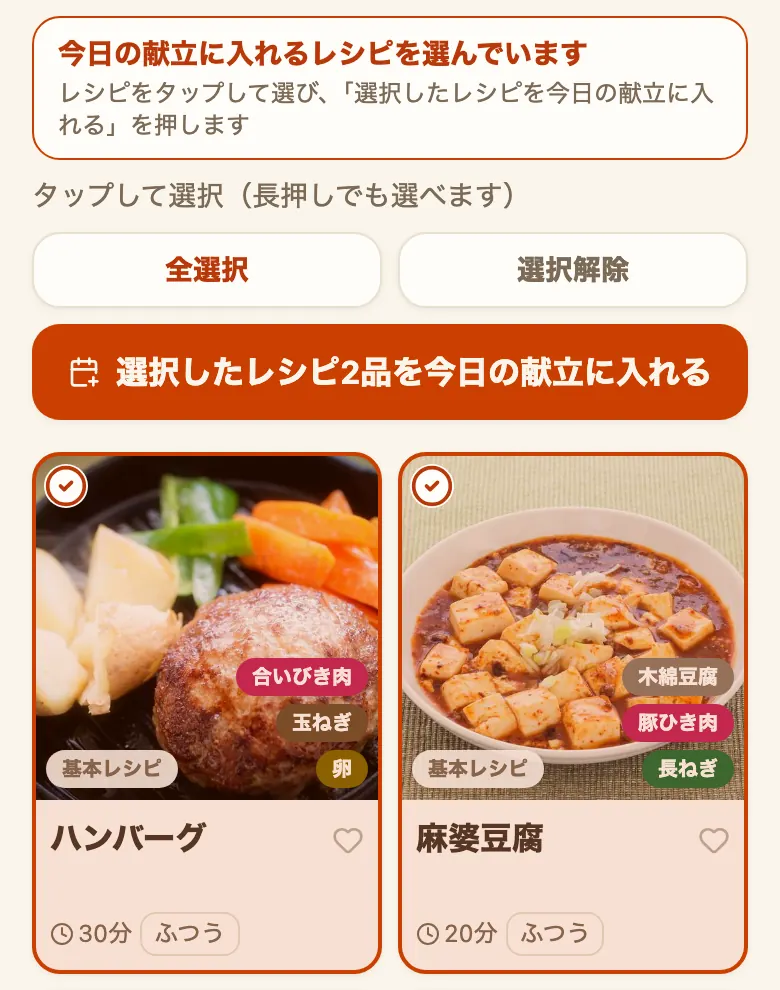
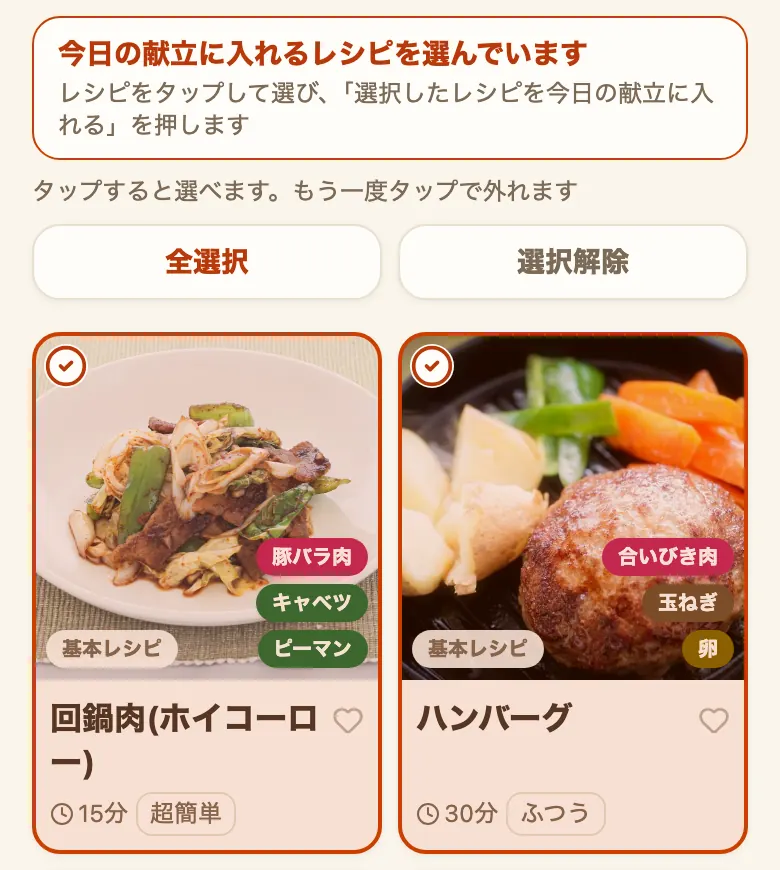
使い方ページを2026-08-17の作り替え(便HG/HH/HI/HJ)の実物に合わせる(便HL)
献立の「日」: ①§1の見取り図「今日の分がまだ決まっていない日は『今日なに作る？』の提案も出ます」→「今日なに作る？」はどの日にも出て、決まっている日は畳んだ状態で出る、に直した ②§4の「まだ何も決まっていないときは…」は、空の日には「今日の献立」の枠ごと出なくなったので、空の日に出るもの(「今日なに作る？」と、その下の「今日の献立を選ぶ」)を書いた ③「おまかせで献立を組む」は押しても献立に入らなくなったので、「組んだ献立が画面に出る→『今日の献立に入れる』で食事を選んだときだけ入る」「押すたびに別の組み合わせが出るので何回でも見比べられる」に書き換え、無くなった「別の提案を見る」の段落を落とした ④「もう1品さがす」も無くなったので「畳んだ『今日なに作る？』の見出しを押す」に直し、そこでは「おまかせで献立を組む」が出ないことも書いた ⑤「『この献立から外す』(×)が押せるのは『レシピ一覧から選択中』だけ」→どちらにも×が付き、「今週の献立の予定」の×は今日と今週の両方から外れる、に直した ⑥総入れ替えの説明を「これからの献立」→「今日以降の献立」(アプリの文言に合わせる)

レシピ一覧の選択: ⑦「選び終わったら3つのボタンのどれかを押す」→「選び終わる」→「選んだ◯品をどうしますか？」の窓→「今日の献立に入れる/ファイルに書き出す/削除する」から選ぶ、に書き換え、「選択」が同じ場所で「選択をやめる」に変わることも足した ⑧3つの節の見出しを窓の道の名前に差し替え ⑨選択モードの案内文を実物(「選び終わると、献立に入れる・書き出す・削除を選べます」)に合わせた ⑩複数の端末で使う方法の「一部のレシピだけを渡す」の手順2も同じ流れに直した

前の便の申し送りに無かった食い違い2件(便GZ「レシピを削除しても作った記録が残る」の反映漏れ): ⑪まとめて削除の確認の内訳を、作った記録を「消えるもの」から「残るもの」へ移した ⑫§3の「基本レシピを入れ直しても作った記録は戻りません」→「作った記録もつながり直します」

図: day-suggest / select-for-today を撮り直し(選択モードの案内が1行になったぶん背が縮んだ)。plan-day-buttons は撮る対象(空の日の「今日の献立」)が無くなったので撮り方ごと変え、週の献立を入れたあとの「今日の献立」(×・レシピ一覧から追加・全て作った！・並行調理ナビの入口)を撮るようにした。scripts/data/manual-shot-sizes.json と <img> の width/height も実寸に合わせた(全58枚を照合して食い違い0)

再発防止: GONEWORD-1〜3 を scripts/test-logic.mjs に新設。①今日消した操作の名前(別の提案を見る/もう1品さがす/空状態の案内2行/「レシピを探す」/「在庫の食材から探す」/旧名のおまかせで提案・ほかの候補を見る)が使い方ページ・紹介ページ・複数の端末で使う方法の本文に残っていないこと ②帯のころのボタン名(「選択したレシピ◯品を書き出す/削除」)が残っていないこと(「◯品を今日の献立に入れる」は今も在るので除外) ③書き直したあとの名前が入っていること(期待値は ja.ts の実物から取るので、アプリで名前を変えると赤くなる)。直す前の版で13件が赤になることを確認済み

diff --git a/public/about/manual.html b/public/about/manual.html
@@ -603,7 +603,7 @@
     </figure>
 
     <ul class="feature-list">
-      <li><strong>献立</strong>: 「日」「週」「月」の献立づくり。「日」には今日の献立と「最近作ったもの」が出ます。今日の分がまだ決まっていない日は、「今日なに作る？」の提案も出ます（「日」に2品以上並ぶときは、並行調理ナビの入口も出ます）</li>
+      <li><strong>献立</strong>: 「日」「週」「月」の献立づくり。「日」には今日の献立と「今日なに作る？」の提案、「最近作ったもの」が出ます。今日の分が決まっている日は、「今日なに作る？」は畳んだ状態で出ます（「日」に2品以上並ぶときは、並行調理ナビの入口も出ます）</li>
       <li><strong>レシピ</strong>: 登録したレシピの一覧・検索。右下の「＋」から登録</li>
       <li><strong>食材</strong>: 「食材の在庫」と「買い物メモ」</li>
       <li><strong>設定</strong>: テーマカラー、NG食材、食材と価格、バックアップなど</li>
@@ -774,7 +774,7 @@
       <li>「基本レシピを一覧に表示しない」: 自分で登録したレシピだけを一覧に出したいとき</li>
       <li>「基本レシピを入れ直す」: 消したり編集したりした基本レシピを最初の状態に戻したいとき（自分で編集した基本レシピは上書きされます）</li>
     </ul>
-    <p class="muted">基本レシピを使わないときは、レシピ一覧の「選択」から<a href="#search">まとめて削除</a>もできます。消したあとでも「基本レシピを入れ直す」で戻せます（そのレシピに付けた「作った記録」は戻りません）。</p>
+    <p class="muted">基本レシピを使わないときは、レシピ一覧の「選択」から<a href="#search">まとめて削除</a>もできます。消したあとでも「基本レシピを入れ直す」で戻せます（そのレシピに付けた「作った記録」もつながり直します）。</p>
 
     <h3>レシピ集を追加で読み込む</h3>
     <p>レシピ集の配布がある場合には、設定の「レシピ」にある「レシピセットを読み込む」から、そのレシピ集（JSONファイル）を追加で読み込めます。URLからでも、端末に保存したファイルからでも読み込めます。</p>
@@ -786,12 +786,7 @@
     <p>献立の画面の上にある「日」「週」「月」の3つのボタンで、見方を切り替えます。</p>
 
     <h3>「日」の画面: 今日の分だけ決める</h3>
-    <p>うちレシピを開いて最初に出るのが、この画面です。まだ何も決まっていないときは、自分でレシピを選ぶ「今日の献立を選ぶ」が出ます。決めてもらうときは「今日なに作る？」を使います。</p>
-
-    <figure class="shot" style="--w:390px">
-      <img src="/about/img/manual/plan-day-buttons.webp" width="780" height="364" loading="lazy" decoding="async" alt="献立の「日」の画面。「今日の献立」の見出しの下に「まだ今日つくるものが決まっていません」「レシピ一覧からまとめて選べます」と、「＋今日の献立を選ぶ」のボタンが出ている">
-      <figcaption>「日」の画面。まだ何も決まっていないときの「今日の献立」</figcaption>
-    </figure>
+    <p>うちレシピを開いて最初に出るのが、この画面です。今日の分が決まっていない日には「今日なに作る？」と、その下に自分でレシピを選ぶ「今日の献立を選ぶ」が出ます。1品でも決まると、その上に「今日の献立」が出ます。</p>
 
     <ul class="feature-list">
       <li>「今日の献立を選ぶ」: レシピ一覧が選択モードで開きます。レシピをタップして選び、「選択したレシピ◯品を今日の献立に入れる」を押すと、選んだぶんがまとめて入ります（食事は1回だけ聞かれます）</li>
@@ -800,18 +795,23 @@
     <figure class="shot" style="--w:390px">
       <!-- 2026-08-13 便FY: 本文が「レシピ一覧が選択モードで開きます」と書いているのに図が
            1枚も無く、押したあとどんな画面になるのかが読めなかったため追加 -->
-      <img src="/about/img/manual/select-for-today.webp" width="780" height="990" loading="lazy" decoding="async" alt="「今日の献立を選ぶ」を押して開いたレシピ一覧。上に「今日の献立に入れるレシピを選んでいます」の枠、「全選択」「選択解除」、「選択したレシピ2品を今日の献立に入れる」のボタンが並び、その下の選んだ2枚のカードの左上にチェックの印が付いている">
-      <figcaption>「今日の献立を選ぶ」を押したあとのレシピ一覧。選んだ品数がボタンに出ます</figcaption>
+      <img src="/about/img/manual/select-for-today.webp" width="780" height="870" loading="lazy" decoding="async" alt="「今日の献立を選ぶ」を押して開いたレシピ一覧。上に「今日の献立に入れるレシピを選んでいます」の枠と選び方の案内、その下に「全選択」「選択解除」が並び、選んだ2枚のカードの左上にチェックの印が付いている">
+      <figcaption>「今日の献立を選ぶ」を押したあとのレシピ一覧。選んだ品数は画面の下のボタンに出ます</figcaption>
     </figure>
-    <p>決まった品は「作った！」で片付けられ、まとめて片付けるときは「全て作った！」を押します。</p>
-    <p>決まった品は<strong>「レシピ一覧から選択中」</strong>と<strong>「今週の献立の予定」</strong>（朝食・昼食・夕食）に分かれて縦に並びます。「この献立から外す」（×）が押せるのは「レシピ一覧から選択中」だけです。今週の献立の予定は「週」の画面で変更します。</p>
+    <p>決まった品は「作った！」で片付けられ、まとめて片付けるときは「全て作った！」を押します。もう1品足すときは、「今日の献立」の中の<strong>「レシピ一覧から追加」</strong>から同じレシピ一覧を開けます。</p>
+    <p>決まった品は<strong>「レシピ一覧から選択中」</strong>と<strong>「今週の献立の予定」</strong>（朝食・昼食・夕食）に分かれて縦に並びます。どちらの品にも「×」が付き、「レシピ一覧から選択中」の×は今日の献立から、「今週の献立の予定」の×は今日の献立と今週の献立の両方から外します（作った記録は残ります）。</p>
+
+    <figure class="shot" style="--w:390px">
+      <img src="/about/img/manual/plan-day-buttons.webp" width="780" height="1050" loading="lazy" decoding="async" alt="献立の「日」の「今日の献立」。「今週の献立の予定」の見出しと「×を押すと、今週の献立からも外れます（作った記録は残ります）」の案内の下に「夕食」の枠があり、2品の行に「作った！」と「×」が並び、その下に「＋レシピ一覧から追加」「全て作った！」のボタンと並行調理ナビの入口が出ている">
+      <figcaption>「今日の献立」。決まった品が食事ごとに並び、行ごとに「作った！」と「×」が押せます</figcaption>
+    </figure>
 
     <h4>「今日なに作る？」で決めてもらう</h4>
-    <p>自分で選ばずに決めてもらうときは、「今日なに作る？」を使います。ボタンは2つです。</p>
+    <p>自分で選ばずに決めてもらうときは、「今日なに作る？」を使います。今日の分が決まっていない日には、ボタンが2つ出ます。</p>
 
     <ul class="feature-list">
       <li><strong>「ランダムで1品出す」</strong>: 押すたびに候補を1品選び直します。出てきた料理を押すとレシピが開きます（今日の献立には入りません）</li>
-      <li><strong>「おまかせで献立を組む」</strong>: 今日の分だけ、主菜と副菜を1品ずつ選んで今日の献立に入れます</li>
+      <li><strong>「おまかせで献立を組む」</strong>: 今日の分だけ、主菜と副菜を1品ずつ組み合わせて画面に出します。押すたびに別の組み合わせが出るので、何回でも見比べられます</li>
     </ul>
 
     <figure class="shot" style="--w:390px">
@@ -820,9 +820,9 @@
     </figure>
 
     <p>「条件をしぼる」から「お気に入り」「最近作ってない」「◯分以内」のほか、料理の種別（主菜・副菜・汁物・その他）も選べます。この絞り込みが効くのは「ランダムで1品出す」です。</p>
-    <p>「おまかせで献立を組む」のあとに出る「別の提案を見る」を押すと、前のおまかせ分を入れ替えて別の組み合わせを提案し直します。</p>
+    <p>組んだ献立は「おまかせで組んだ献立」として画面に出るだけで、今日の献立にはまだ入りません。<strong>「今日の献立に入れる」</strong>を押して食事（朝食・昼食・夕食）を選ぶと、今週の予定（今日の枠）と今日の献立の両方に入ります。「食事を決めずに今日の献立に追加」を選ぶと、今週の予定には入れず今日の献立にだけ入ります。</p>
 
-    <p class="muted">今日の分が1品でも決まると、「今日なに作る？」は畳まれて「今日の献立」が主役になります。「今日の献立」の下に出る「もう1品さがす」を押すと開くので、あと1品を決めるのにも使えます。</p>
+    <p class="muted">今日の分が1品でも決まっている日は、「今日なに作る？」は畳んだ状態で出ます。見出しを押すと開き、「ランダムで1品出す」であと1品を決められます（「おまかせで献立を組む」が出るのは、今日の分が決まっていない日です）。</p>
 
     <h4>「最近作ったもの」</h4>
     <p>「日」の画面の下には、新しい順に5件の<strong>「最近作ったもの」</strong>が出ます。今日の分が決まっている日も決まっていない日も、いつでもここにあります。料理名を押すとその1件の記録が開き、その下の「作った記録の一覧」からは全部の記録を見返せます。</p>
@@ -850,7 +850,7 @@
     <p><strong>「まとめて献立を入力」</strong>を押すと、表示している週の献立に主菜と副菜をまとめて入れます。</p>
     <ul class="feature-list">
       <li><strong>「入れかた」で入り方を選べます。</strong>最初は「まだ決まっていない枠だけ埋める」で、今ある献立はそのままにして空いている枠にだけ入れます。実際に何品入ったかは「すでに決まっている◯食分はそのままにして、◯品を新しく立てました」のように結果で出ます</li>
-      <li>「レシピを総入れ替え」を選ぶと、表示している週のこれからの献立をすべて消してから入れ直します（過ぎた日の献立と作った記録、表示していない食事は消えません）。消える品数と残るものを確かめてから実行できます</li>
+      <li>「レシピを総入れ替え」を選ぶと、表示している週の今日以降の献立をすべて消してから入れ直します（過ぎた日の献立と作った記録、表示していない食事は消えません）。消える品数と残るものを確かめてから実行できます</li>
       <li>1行だけ振り直したいときは、その行のサイコロのマークを押します（今日より前の日と、すでに「作った」記録がある行には出ません）</li>
       <li>「提案の条件」を開くと「調理時間15分以内を優先」「指定なし／和食／洋食／中華」と、Pro版の<a href="#pro">「栄養から組む」</a>を選べます。調理時間は全レシピが対象で、自分で登録したレシピも調理時間を入れると対象になります</li>
     </ul>
@@ -1370,12 +1370,13 @@
     <p class="muted">カロリー順の並べ替えは無料で使えます。たんぱく質が多い順・塩分が低い順などはPro版の機能です。</p>
 
     <h3>まとめて選ぶ（今日の献立に入れる・書き出す・削除する）</h3>
-    <p>レシピ一覧の<strong>「選択」</strong>を押すと選択モードになり、レシピをタップ（長押しでも選べます）して複数選べます。「全選択」「選択解除」も使えます。選び終わったら「選択したレシピ◯品を今日の献立に入れる」「選択したレシピ◯品を書き出す」「選択したレシピ◯品を削除」のどれかを押します。</p>
-    <p class="muted">1品も選んでいないうちから「選んだレシピは、今日の献立に入れる・書き出す・削除するができます」が出るので、選び始める前に何ができるか分かります。献立の「今日の献立を選ぶ」から開いたときは、献立に入れるボタンだけを出します（<a href="#mealplan">献立を立てる</a>）。</p>
-    <p><strong>「選択したレシピ◯品を今日の献立に入れる」</strong>は、選んだレシピをまとめて今日の献立に入れます。食事（朝食・昼食・夕食）は品ごとではなく1回だけ聞かれ、選ぶと今週の予定（今日の枠）にも入ります。すでに入っている品は増えません。</p>
-    <p><strong>「選択したレシピ◯品を書き出す」</strong>は、選んだレシピだけをファイルにします。入るのはレシピの内容と写真、そのレシピの「作った記録」（日付・人数分・メモ）です。「作った記録」の写真、献立、買い物メモ、食材の在庫と価格、アプリの設定は入りません。書き出しても端末のレシピはそのまま残ります。読み込むときは、設定の「バックアップを読み込む」から「今のデータに追加」を押してこのファイルを選びます。</p>
+    <p>レシピ一覧の<strong>「選択」</strong>を押すと選択モードになります（レシピのカードを長押ししても入れます）。「選択」のボタンは、同じ場所で<strong>「選択をやめる」</strong>に変わります。レシピをタップすると選べ、もう一度タップで外れます。「全選択」「選択解除」も使えます。</p>
+    <p>選び終わったら、画面の下の<strong>「選び終わる」</strong>を押します。<strong>「選んだ◯品をどうしますか？」</strong>の窓が開き、<strong>「今日の献立に入れる」「ファイルに書き出す」「削除する」</strong>から選べます。「選択をやめる」を押すと、選んだぶんを外して一覧に戻ります。</p>
+    <p class="muted">1品も選んでいないうちから「選び終わると、献立に入れる・書き出す・削除を選べます」が出るので、選び始める前に何ができるか分かります。献立の「今日の献立を選ぶ」から開いたときは窓を出さず、「選択したレシピ◯品を今日の献立に入れる」のボタンだけを出します（<a href="#mealplan">献立を立てる</a>）。</p>
+    <p><strong>「今日の献立に入れる」</strong>は、選んだレシピをまとめて今日の献立に入れます。食事（朝食・昼食・夕食）は品ごとではなく1回だけ聞かれ、選ぶと今週の予定（今日の枠）にも入ります。すでに入っている品は増えません。</p>
+    <p><strong>「ファイルに書き出す」</strong>は、選んだレシピだけをファイルにします。入るのはレシピの内容と写真、そのレシピの「作った記録」（日付・人数分・メモ）です。「作った記録」の写真、献立、買い物メモ、食材の在庫と価格、アプリの設定は入りません。書き出しても端末のレシピはそのまま残ります。読み込むときは、設定の「バックアップを読み込む」から「今のデータに追加」を押してこのファイルを選びます。</p>
     <p class="muted">ファイル名は <code>uchi-recipe-recipes-日付.json</code> です。端末ぜんぶを持ち出すバックアップ（<code>uchi-recipe-backup-日付.json</code>）とは中身の範囲が違うので、名前で見分けられます。</p>
-    <p><strong>「選択したレシピ◯品を削除」</strong>の確認では、<strong>消えるもの</strong>（レシピ・作った記録とその写真・献立の予定・今日の献立）と<strong>残るもの</strong>（他のレシピ・買い物メモ・食材の在庫）を、それぞれ件数つきでお伝えします。基本レシピが入っているときは、設定の「基本レシピを入れ直す」で戻せることも一緒に出ます。</p>
+    <p><strong>「削除する」</strong>の確認では、<strong>消えるもの</strong>（レシピの材料・手順とレシピの写真・献立の予定・今日の献立）と<strong>残るもの</strong>（作った記録とその写真・他のレシピ・買い物メモ・食材の在庫）を、それぞれ件数つきでお伝えします。基本レシピが入っているときは、設定の「基本レシピを入れ直す」で戻せることも一緒に出ます。</p>
 
     <h3>お気に入りとNG食材</h3>
     <p>レシピ詳細のハートで「お気に入りに追加」できます。献立の「今日なに作る？」の「条件をしぼる」や、レシピ一覧の絞り込みから、お気に入りだけを見られます。</p>

diff --git a/public/about/multi-device.html b/public/about/multi-device.html
@@ -484,7 +484,7 @@
   <p>レシピ帳ぜんぶではなく、選んだレシピだけをファイルにできます。</p>
   <ol class="steps">
     <li>レシピ一覧の「選択」を押して、渡すレシピを選びます</li>
-    <li>「選択したレシピ◯品を書き出す」を押します</li>
+    <li>「選び終わる」を押し、「選んだ◯品をどうしますか？」の窓で「ファイルに書き出す」を押します</li>
     <li>受け取った側は「今のデータに追加」で読み込みます</li>
   </ol>
   <p>1品だけなら、レシピ詳細の「シェア」から「テキストでシェア」で送る方法もあります。</p>
